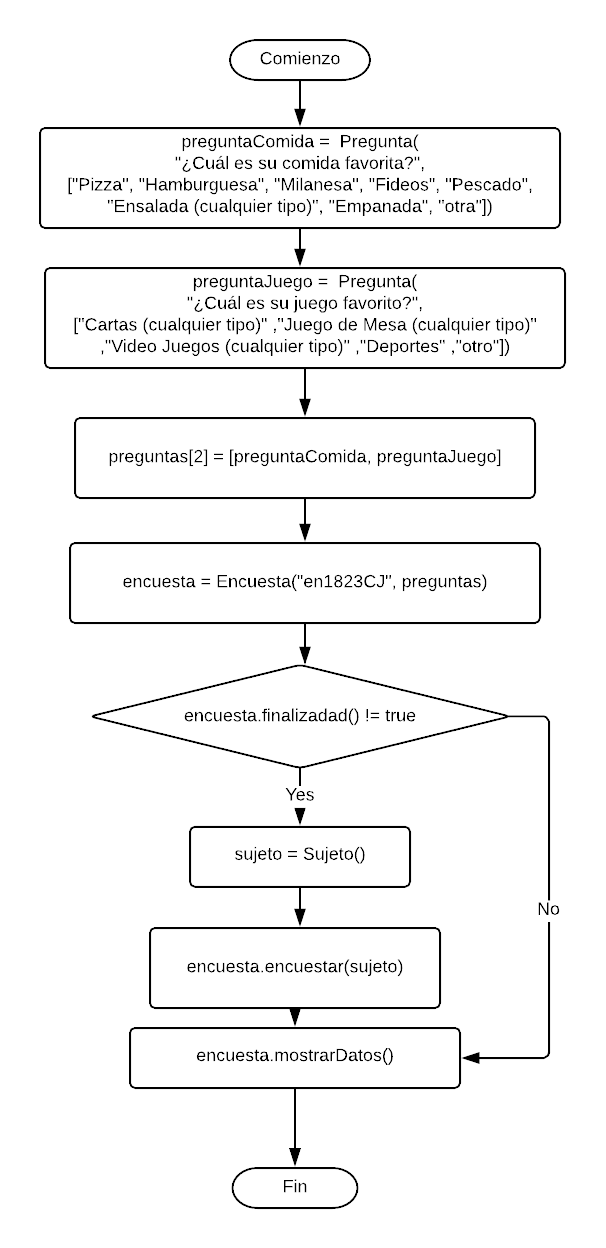
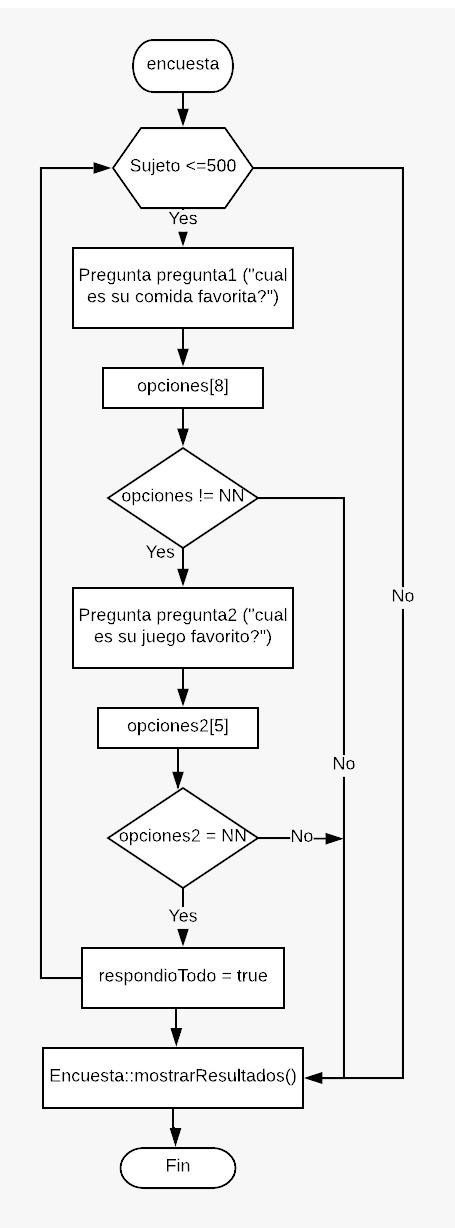
agrego nueva definicion de programa

diff --git a/readme.md b/readme.md
@@ -9,29 +9,23 @@ Las clases del programa seguirán el siguiente esquema:
 
 ![uml encuestas](uml_encuesta.png)
 
+La consigna del siguiente trabajo práctico consiste en poder armar una estructura de datos que permita encuestar como máximo a 500 personas de entre 18 y 23 años, con el fin de capturar datos referentes a comidas y juegos del gusto del encuestado, y una vez finalizada, poder exhibir los resultados obtenidos de la totalidad, en forma ordenada.
+
 ### Encuesta
 
-Podemos ver que dentro de la clase **Encuesta** guardamos un array de **Sujeto** (_sujetosEncuestados_) y un array del tipo **Pregunta**, este atributo nos permite manejar una encuesta con todas sus preguntas necesarias.
+Como primera medida, comenzamos el programa a través de un procedimiento que inicia la encuesta, es decir, en él,  se describen las &quot;opciones&quot; a través de dos arrays de tipo string, y se instancia un objeto **preguntas** de **clase Pregunta** , el cual será otro array que contendrá, en este caso, los objetos **pregunta1** y **pregunta2** , con las preguntas de la encuesta, el array de opciones correspondiente a cada pregunta y la cantidad de opciones, para luego, comenzar el proceso que utilizará los atributos de las diferentes clases creadas, por medio de sus respectivos métodos públicos y privados.
 
-Ademas contamos la cantidad se sujetos encuestados a través de la propiedad de tipo entero _cantidadSujetosEncuestados_.
-
-El método **finalizada()** nos devuelve un bool, que nos va a indicar si la encuesta todavía puede _recibir_ mas sujetos para encuestar. Cuando **finalizada()** retorne _true_ la encuesta no podrá seguir realizando preguntas.
-
-Para llamar al procedimiento **encuestar** debemos pasarle un **Sujeto**, el resultado, se guardara en el array **SujetosEncuestados** de la **Encuesta**..
+Por medio de la clase Encuesta, contamos con el atributo **preguntas** (de tipo **Pregunta** ), el cual permitirá manejar la encuesta con las preguntas correspondientes. También se posee el atributo **cantidadDeEncuestados** de tipo entero, con el que estaremos al tanto de la cantidad de personas que se vayan encuestando; una variable privada **nombre** , de tipo string, en la que se guardará el nombre de la encuesta. Seguidamente, contamos con el método privado **finalizada** (de tipo bool) **,** que indicará si es posible tomar más sujetos a encuestar, ya sea por haber llegado al tope del array o por haber ingresado la palabra &quot;NN&quot; para finalizar el proceso. Por su parte, el array de tipo Sujeto denominado **sujetosEncuestados,** guardará la respuesta que se otorgue dentro del procedimiento público **encuestar.** Asimismo, el método **getFinalizada** , es utilizado por el procedimiento que inicia la encuesta para verificar que sea posible realizarla. **MostrarEncuesta** se encarga de obtener los resultados de la encuesta (guardados en cada **Sujeto** del atributo **respuestas,** array de int), ordenarlos de mayor a menor y mostrarlos por pantalla.
 
 ### Sujeto
 
-El procedimiento **encuestar** (de **Encuesta**) va a ejecutar **responder** del **Sujeto** pasandole como parámetro el array de **Pregunta**, los resultados (las respuestas) se guardaran en la propiedad **respuestas** del sujeto.
+Por otro lado, generamos la clase **Sujeto** , la cual va a contener un array **respuestas** (de tipo entero)en el que se guardará cada respuesta de los usuarios y un método **responder** , que seráejecutado medianteel procedimiento **encuestar** de la clase **Encuesta** , pasándole el array que contiene las preguntas de la encuesta (de tipo Pregunta) como parámetro, a fin de corroborar si el usuario respondió en su totalidad.
 
 ### Pregunta
 
-Cada **Pregunta** cuenta con la propiedad **textoPregunta** del tipo string que va a reflejar el enunciado de la pregunta Ej: "_¿Cuál es su comida favorita?
-_" y el atributo **opciones** va a ser un array de strings que va a mostrar las opciones disponibles de la pregunta Ej: "Pizza, Hamburguesa, Milanesa, Fideos, Pescado, Ensalada (cualquier tipo), Empanada, otra."
-
-La función **preguntar()** va a mostrar por pantalla el texto de la pregunta y las opciones y leerá la respuesta del usuario, antes de devolver el resultado llamara a la función privada **validarRespuesta()** la cual devuelve un bool en true si la respuesta existe en las opciones o false si no existe.
+Finalmente, se describe la clase **Pregunta** , donde el atributo **textoPregunta** contendrá el enunciado de la pregunta a realizar, el atributo **opciones** , será el array generado en el procedimiento **iniciarEncuesta** , de donde se obtendrán las opciones de Comidas y Juegos, pedidas por cada pregunta que se le haga al encuestado. Se mostrará cada pregunta con sus opciones a fin de que se obtenga la respuesta del usuario, donde **validarRespuesta** (método privado de tipo bool) verifique que la respuesta corresponda sólo a las opciones otorgadas. El atributo privado **obtenerNumeroOpcion** será el encargado de tomar cada opción como tipo de dato string para luego, devolverlo como tipo de dato entero. Por parte de los métodos públicos contamos con el método de tipo entero, **preguntar** ,  que exhibe los enunciados de las preguntas y opciones, junto con la validación de la respuesta del usuario para finalmente retornar esta opción elegida.
 
 ## Flujo
 
-Mirando desde el `main` el flujo seria algo asi:
 
 ![flujo_encuesta](flujo_encuesta.png)
